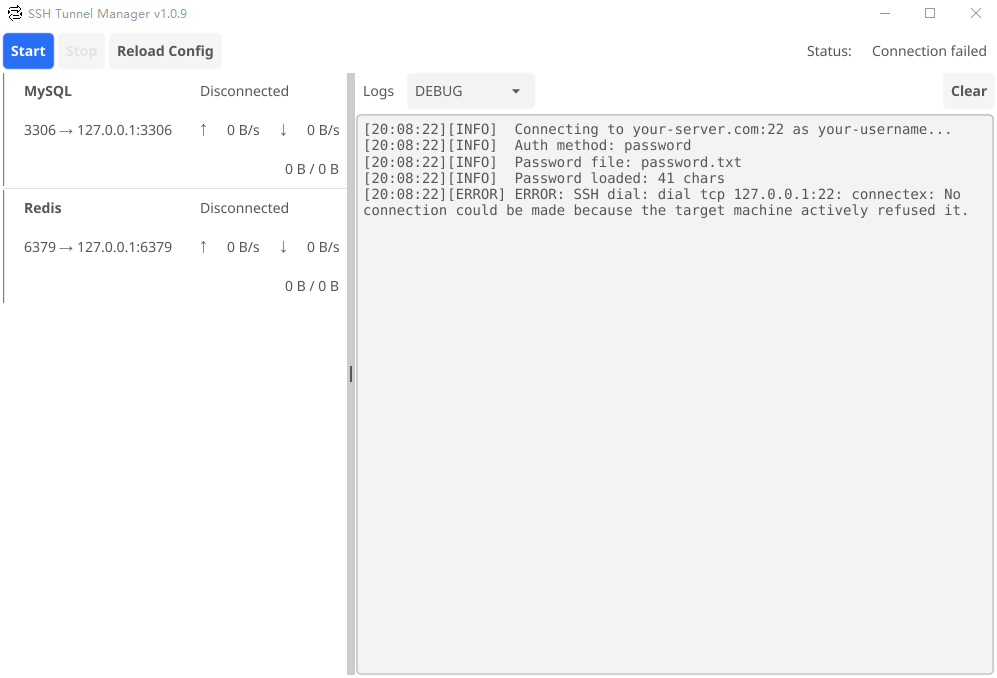
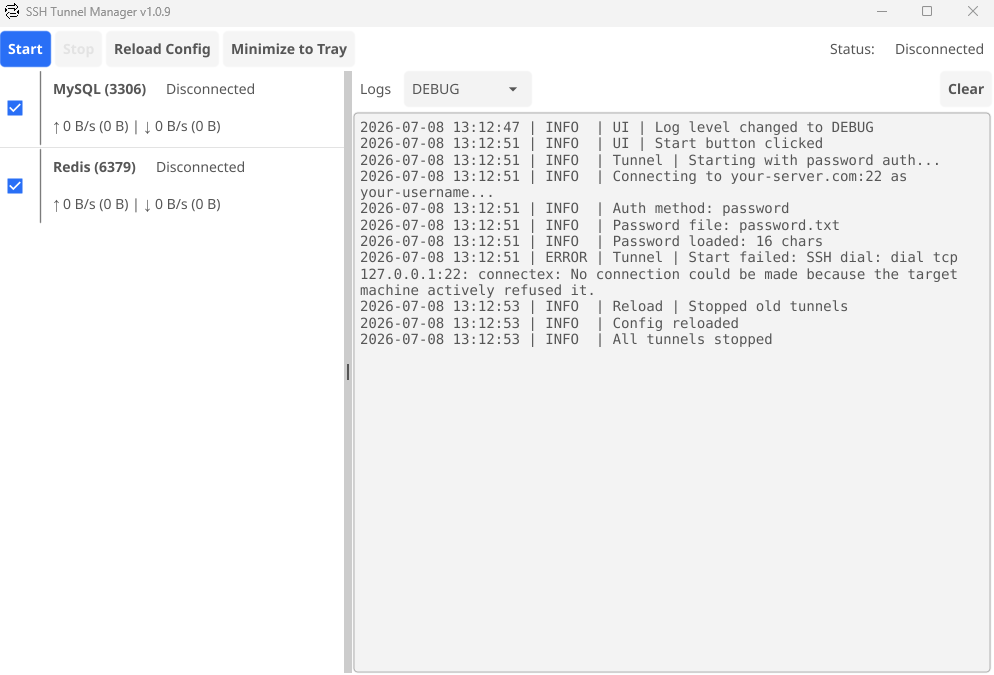
Update README and UI controls documentation
- Add details on new UI features: individual tunnel control, toolbar, log panel, and status bar
- Expand system tray functionality description
- Include structured logs with level indicators
- Provide more detailed explanation of the main interface components

diff --git a/README.md b/README.md
@@ -6,17 +6,23 @@ A GUI-based SSH tunnel manager built with Go and Fyne. Easily manage multiple po
 
 - **GUI Interface** - Clean, intuitive interface built with Fyne
 - **Multiple Tunnels** - Manage multiple SSH port forwards simultaneously
+- **Individual Tunnel Control** - Enable/disable tunnels individually with checkboxes
 - **Real-time Traffic** - Monitor upload/download rates and total traffic
-- **System Tray** - Minimize to system tray with show/quit menu
+- **System Tray** - Minimize to system tray with Connect/Disconnect/Quit menu
 - **Auto-reconnect** - Keepalive mechanism to maintain connections
 - **Password File** - Secure password storage in separate file (git-ignored)
 - **Configurable** - YAML-based configuration for easy customization
+- **Structured Logs** - Timestamped logs with level indicators (INFO/WARN/ERROR)
 
 ## Screenshot
 
 ![SSH Tunnel Manager](docs/screenshot.png)
 
-The main interface displays a list of configured tunnels with their status, local/remote ports, and real-time traffic statistics (upload/download rates and total data transferred).
+The main interface features:
+- **Toolbar** - Start, Stop, Reload Config, and Minimize to Tray buttons
+- **Tunnel List** - Each tunnel shows checkbox, name with port, connection status, and traffic stats
+- **Log Panel** - Structured logs with timestamp, level (INFO/ERROR), and messages
+- **Status Bar** - Shows current connection status (Disconnected/Connected)
 
 ## Installation
 
@@ -102,6 +108,37 @@ auth:
   key_file: "~/.ssh/id_rsa"
   key_passphrase_file: ""  # Leave empty to prompt on connect
 ```
+
+## UI Controls
+
+### Toolbar
+
+- **Start** - Connect to SSH server and start all enabled tunnels
+- **Stop** - Disconnect from SSH server and stop all tunnels
+- **Reload Config** - Reload configuration file and reset connections
+- **Minimize to Tray** - Hide window to system tray
+
+### Tunnel List
+
+Each tunnel displays:
+- Checkbox to enable/disable individual tunnels
+- Status indicator (Gray=Disconnected, Green=Connected, Red=Error)
+- Tunnel name and port mapping
+- Real-time traffic stats: `↑ rate (total) | ↓ rate (total)`
+
+### System Tray
+
+Right-click the tray icon for:
+- **Show Window** - Toggle window visibility
+- **Connect** - Start all tunnels
+- **Disconnect** - Stop all tunnels
+- **Quit** - Exit application
+
+### Log Panel
+
+- Filter logs by level (DEBUG, INFO, WARN, ERROR)
+- Auto-scrolls to latest entries
+- Structured format: `YYYY-MM-DD HH:MM:SS | LEVEL | Message`
 
 ## Build Output
 
